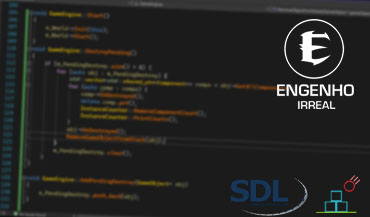
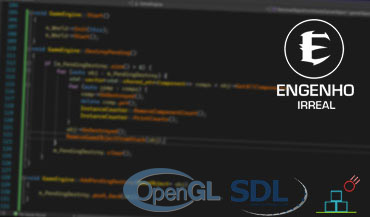
Engine info Updated

Changed region(s): [[0.327, 0.7742, 0.5946, 0.9954]]

diff --git a/portfolio.html b/portfolio.html
@@ -143,15 +143,15 @@
 							<h4>My contributions</h4>
 							<ul class="smallBottomMargin">
 								<strong><li>Planned and structured the engine's architecture</li>	
-								<li>Guaranteed the engine is straightforward and easy to use for the high-end user</li>								</li>
+								<li>Created and implemented a rendering pipeline from scratch using OpenGL</li>
 								<li>Engine and Debug Tools Programmer</li>
 								<li>Created an arcade game using the game engine to verify its efficiency</li></strong>
 							</ul>
 							<h4>Project details</h4>
 							<ul class="smallBottomMargin">
-								<strong><li>Made with C++</li>
-								<li>Created in one month by a team of two</li>
-								<li> <a href="https://github.com/diogo-frazao/2DGameEngine" target="_blank">Engine's Source Code</a></li></strong>
+								<strong><li>Made with C++ using OpenGL, Box2D and SDL2</li>
+								<li>Created in two months by a team of two</li>
+								<li> <a href="https://github.com/DavidSantosDEV/EngenhoIrreal" target="_blank">Engine's Source Code</a></li></strong>
 							</ul>
 						</section>
 

diff --git a/index.html b/index.html
@@ -56,7 +56,7 @@
 							<article class="col-6 col-12-xsmall work-item">
 								<a href="portfolio.html" target="_blank" class="image fit thumb"><img src="images/engine/preview.jpg" alt="" /></a>
 								<h3>Custom 2D GameEngine (C++)</h3>
-								<p>My <strong>own 2D GameEngine </strong> using the <strong>SDL2 and Box2D</strong> libraries. </p>
+								<p>My <strong>own 2D GameEngine </strong> using the <strong>OpenGL and Box2D</strong>.</p>
 							</article>
 							<article class="col-6 col-12-xsmall work-item">
 								<a href="portfolio.html" target="_blank" class="image fit thumb"><img src="images/voodoo/preview.jpg" alt="" /></a>
